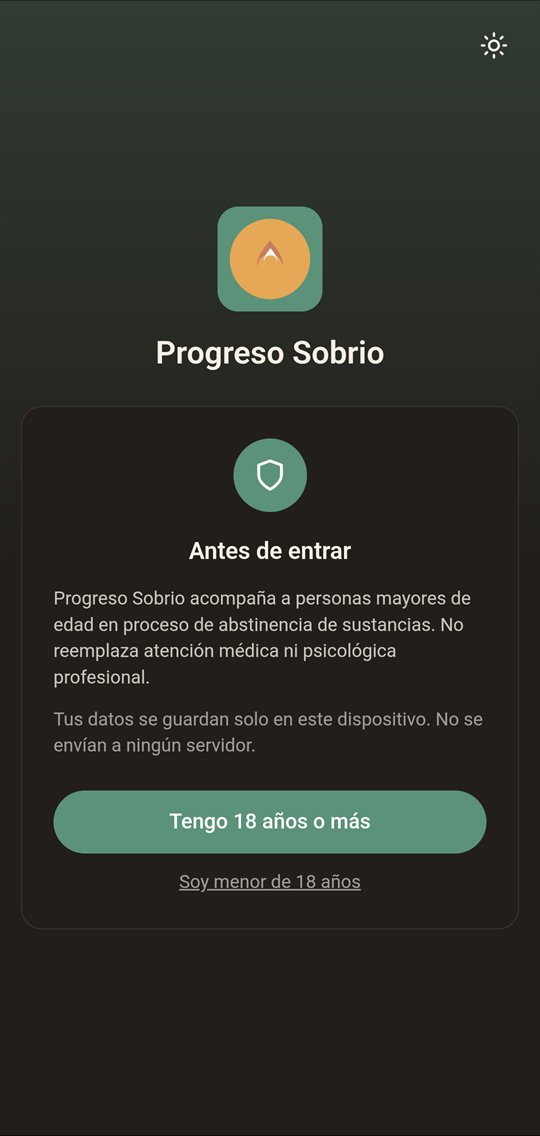
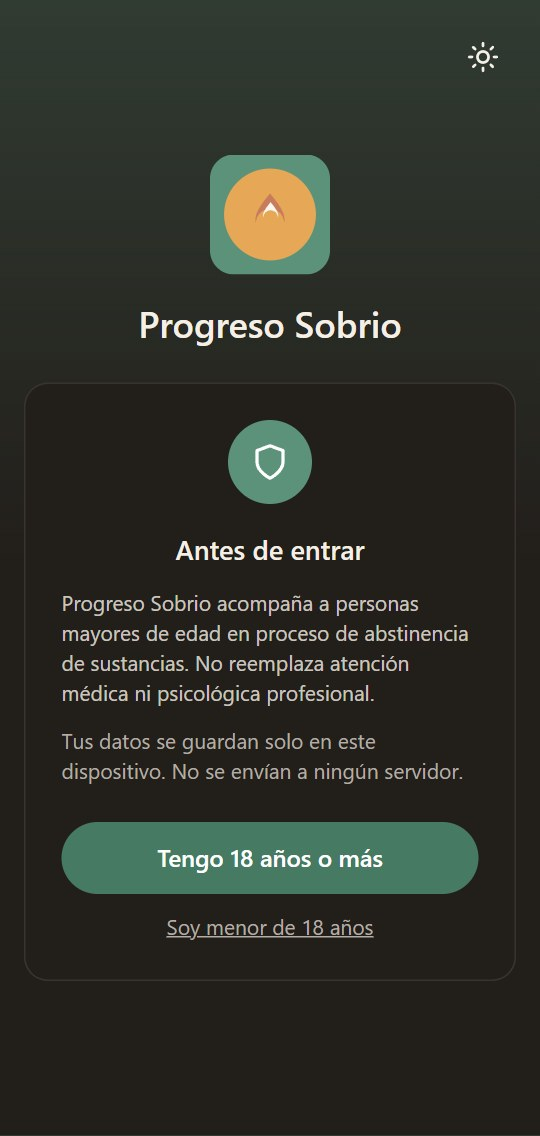
feat: capturas nuevas, foto del sitio y respaldos con nombre discreto (#78)
- Capturas nuevas de la app web en los collages del README, en el banner y en la portada de progresosobrio.cl.
- Primera vez ahora incluye la pantalla de términos y privacidad.
- Respaldos con nombre discreto: ps-AAAA-MM-DD.json y ps-AAAA-MM-DD.csv; los antiguos se siguen restaurando.

diff --git a/src/lib/exportImport.ts b/src/lib/exportImport.ts
@@ -160,8 +160,9 @@ export async function exportWithMessage(run: () => Promise<string>): Promise<str
 /** Devuelve el nombre del archivo generado, para poder confirmarlo en la UI. */
 export async function exportJson(): Promise<string> {
   const data = await buildExport();
-  // Fecha local en el nombre: exportedAt va en UTC y en Chile, de noche, ya marcaba el día siguiente.
-  const filename = `progreso-sobrio-datos-${toDateKey(new Date())}.json`;
+  // "ps" y no el nombre de la app: el archivo no tiene que delatar de qué se trata. Fecha local en el
+  // nombre: exportedAt va en UTC y en Chile, de noche, ya marcaba el día siguiente.
+  const filename = `ps-${toDateKey(new Date())}.json`;
   return saveExport(JSON.stringify(data, null, 2), filename, 'application/json');
 }
 
@@ -223,7 +224,7 @@ export async function exportCsv(): Promise<string> {
 
   // El BOM (U+FEFF) le avisa a Excel que el archivo es UTF-8: sin él, los tildes y la ñ se ven mal.
   const csv = '\uFEFF' + [CSV_COLUMNS, ...rows].map((row) => row.map(csvEscape).join(CSV_SEPARATOR)).join('\n');
-  const filename = `progreso-sobrio-registros-${toDateKey(new Date())}.csv`;
+  const filename = `ps-${toDateKey(new Date())}.csv`;
   return saveExport(csv, filename, 'text/csv');
 }
 

diff --git a/.github/imagenes/01-primera-vez.html b/.github/imagenes/01-primera-vez.html
@@ -9,12 +9,16 @@
   <main class="lamina">
     <p class="ceja">01 · Primera vez</p>
     <h1 class="titulo">Antes de entrar, lo esencial</h1>
-    <p class="bajada">Confirmar mayoría de edad, un tour corto y la app lista con datos de ejemplo.</p>
+    <p class="bajada">Confirmar mayoría de edad, aceptar los términos, un tour corto y la app lista con datos de ejemplo.</p>
 
-    <div class="fila">
+    <div class="fila cuatro">
       <figure>
         <div class="telefono"><img src="capturas/01-puerta-edad.jpg" alt=""></div>
         <figcaption><strong>Puerta de edad</strong><span>Menores de 18 ven la línea 1412</span></figcaption>
+      </figure>
+      <figure>
+        <div class="telefono"><img src="capturas/01-terminos.jpg" alt=""></div>
+        <figcaption><strong>Términos y privacidad</strong><span>Se aceptan antes de empezar</span></figcaption>
       </figure>
       <figure>
         <div class="telefono"><img src="capturas/01-tour-bienvenida.jpg" alt=""></div>

diff --git a/README.md b/README.md
@@ -33,13 +33,14 @@ El detalle está en la [política de privacidad](https://progresosobrio.cl/priva
 
 - **Tour de bienvenida**, una sola vez, antes de entrar por primera vez: te explica en 4 tarjetas cortas dónde está el registro diario, dónde ver tu progreso, y que tu red de apoyo está siempre a un toque en el ícono de corazón.
 - **Racha de sobriedad** por sustancia, lo primero que ves al abrir la app, y puedes tener varias en paralelo.
-- **Registro diario en menos de 30 segundos**: LPM (latidos por minuto) en reposo, ansias, sueño, actividad física, energía, ánimo, hábitos cumplidos, disparadores y notas.
-- **Historial** en tabla y calendario, editable.
+- **Registro diario en menos de 30 segundos**: LPM (latidos por minuto) en reposo, ansias, sueño, actividad física, energía, ánimo, hábitos cumplidos, disparadores y notas. Basta un dato para guardar el día.
+- **Historial** en tarjetas y calendario, editable.
 - **Gráficas** de LPM en reposo, sueño y actividad a lo largo del tiempo.
 - **Panel "Qué te ayuda"**: correlaciones simples en lenguaje llano, nunca un diagnóstico.
 - **Rachas de cumplimiento por hábito.**
 - **Respaldo completo** en un archivo JSON que puedes restaurar cuando quieras, y **tus registros en CSV** para abrirlos en Excel o Sheets.
 - **Red de apoyo** siempre a un toque: tus propios contactos + la línea 1412 de SENDA.
+- **Pantalla de privacidad**: el ojo tachado, arriba a la derecha, tapa toda la app con una pantalla neutra. En Ajustes puedes hacer que se tape sola cada vez que sales.
 - **Traer datos del reloj** (solo en la app Android): pulso y sueño desde Health Connect, con una vista previa antes de usarlos en tu registro.
 
 ## App Android
@@ -101,7 +102,7 @@ La parte de los recordatorios sí calzaba, así que la convertimos en el [issue 
 ## Capturas
 
 <p align="center">
-<img src=".github/screenshots/capturas-primera-vez.png" alt="Primera vez: puerta de edad, tour de bienvenida y pantalla de inicio con la racha">
+<img src=".github/screenshots/capturas-primera-vez.png" alt="Primera vez: puerta de edad, términos y privacidad, tour de bienvenida y pantalla de inicio con la racha">
 </p>
 
 <p align="center">

diff --git a/docs/DECISIONES.md b/docs/DECISIONES.md
@@ -106,7 +106,7 @@ Orden de trabajo acordado (PWA primero, Android al final):
 4. Inicio, Red de apoyo y Términos.
 5. Registro.
 6. Progreso: historial, calendario, gráficas en salvia y «Qué te ayuda».
-7. **Discreción**: la manchita como ícono instalado y favicon (app y sitio); nombre «PS» (`name`, `short_name` y `<title>`); respaldos `ps-AAAA-MM-DD.json` y `ps-AAAA-MM-DD.csv` (el `.json` no lleva el nombre adentro, así que los respaldos viejos se siguen importando).
+7. **Discreción**: la manchita como ícono instalado y favicon (app y sitio); nombre «PS» (`name`, `short_name` y `<title>`); respaldos `ps-AAAA-MM-DD.json` y `ps-AAAA-MM-DD.csv` **(hecho)**; el `.json` no lleva el nombre adentro, así que los respaldos viejos se siguen importando.
 8. **PIN opcional**, sobre la misma pantalla del ojo, sin librerías: hash con WebCrypto (PBKDF2 con sal), espera tras intentos fallidos; si se olvida, se borra y se restaura un respaldo. Mencionarlo en la política sería la v1.1.
 9. **Android 0.2.0**: pantalla nativa «Datos del reloj», `app_name` «PS» e ícono del lanzador, enlace a la política, `FLAG_SECURE` opcional, y probar en el APK el aviso de exportar y los enlaces externos.
 
